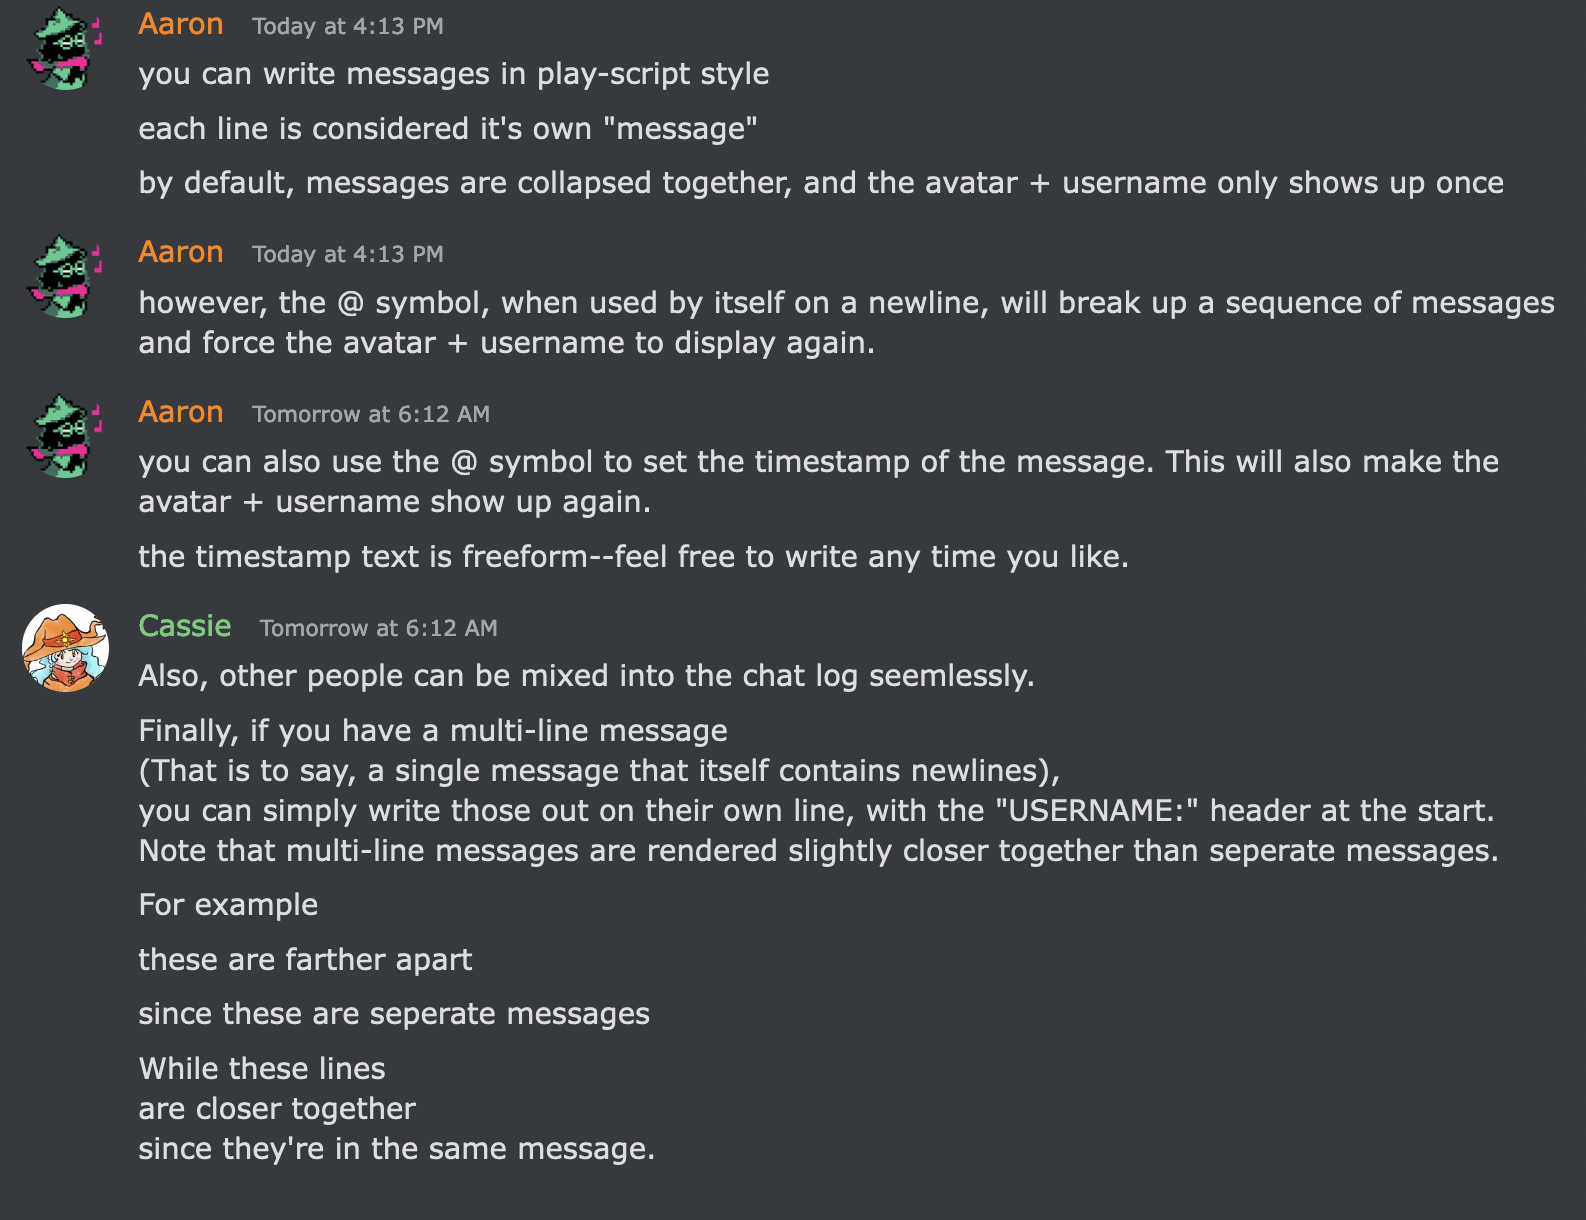
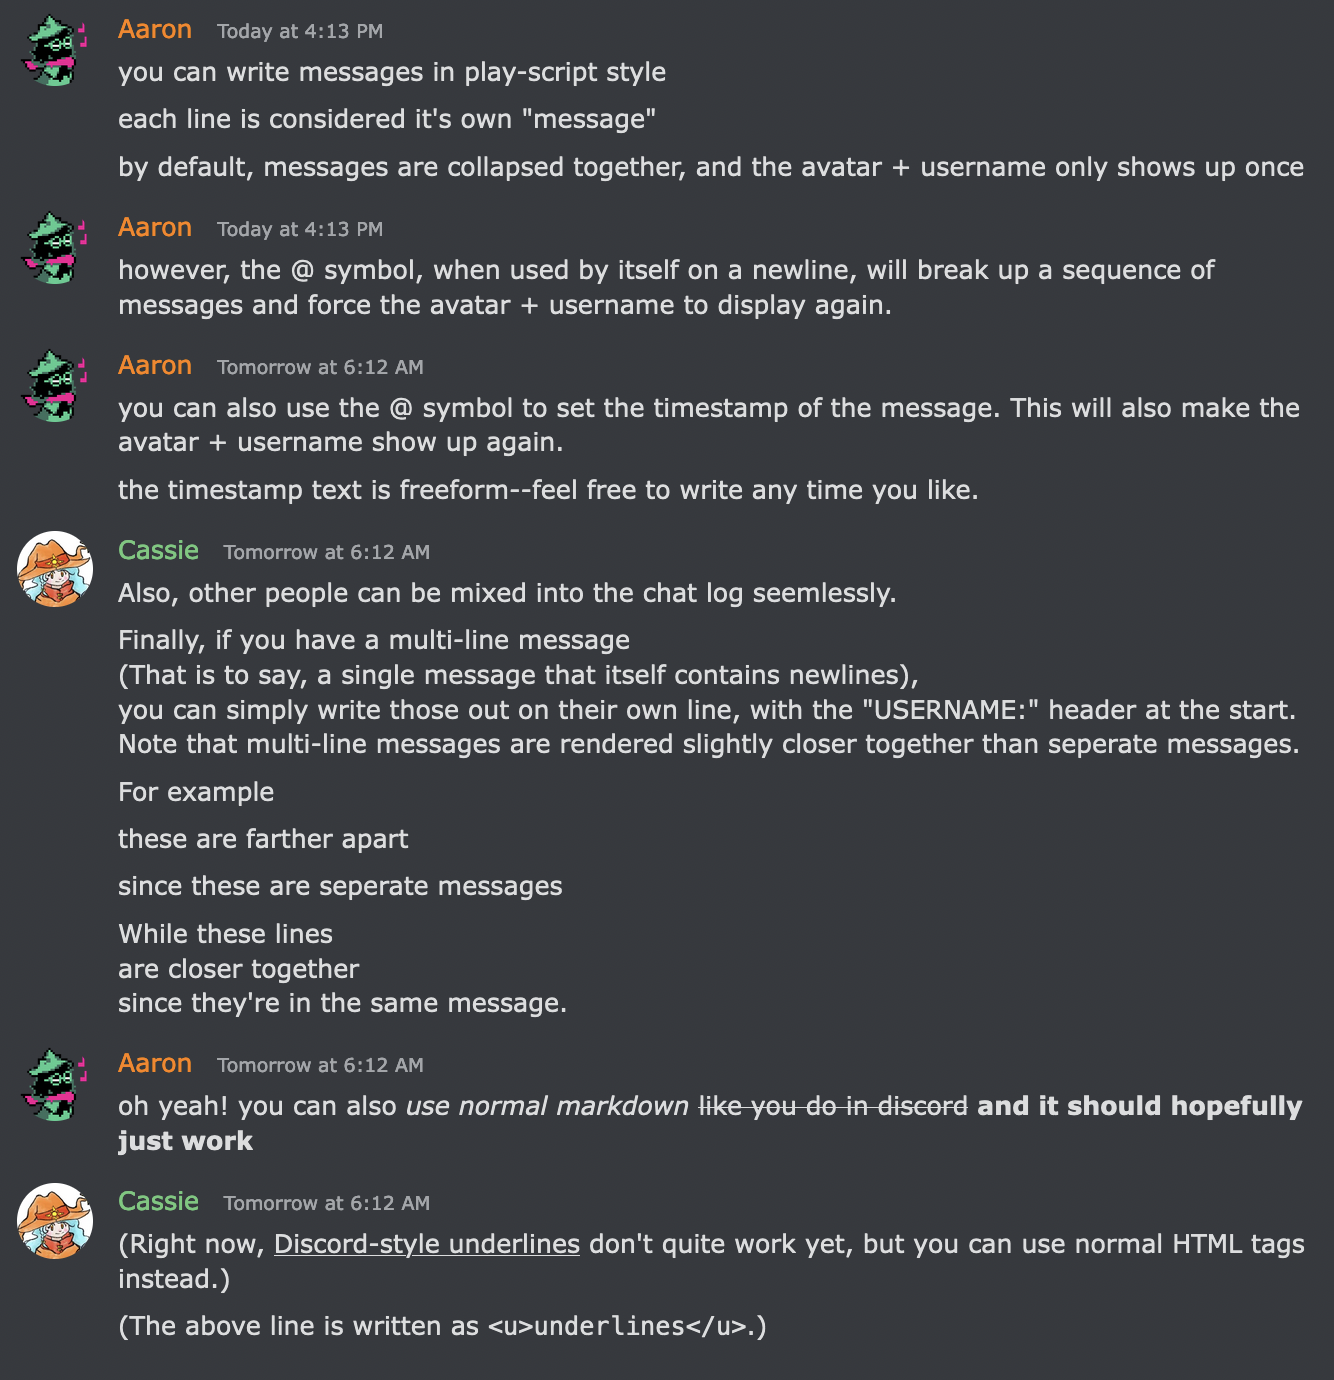
Fix underline to work with Cohost.
Cohost doesn't accept `<u>` tags for some reason. They are instead
replaced with spans that do the same thing.

Also, update the README to match post.txt.

diff --git a/src/main.rs b/src/main.rs
@@ -130,6 +130,11 @@ fn markdown_to_html(
     // (and if they want an actual <p> tag, they should probably edit the HTML output of Cohoard,
     // as most of the time, a raw <p> will look ugly).
     let html = html.replace("<p>", "").replace("</p>", "");
+    // Cohost doesn't accept <u>, so we need to replace it with a span that does the same thing.
+    let html = html
+        .replace("<u>", "<span style=\"text-decoration:underline\">")
+        .replace("</u>", "</span>");
+
     Ok(tera::Value::String(html))
 }
 

diff --git a/README.md b/README.md
@@ -27,6 +27,9 @@ CASSIE: since these are seperate messages
 CASSIE: While these lines
 are closer together
 since they're in the same message.
+AARON: oh yeah! you can also *use normal markdown* ~~like you do in discord~~ **and it should hopefully just work**
+CASSIE: (Right now, <u>Discord-style underlines</u> don't quite work yet, but you can use normal HTML tags instead.)
+CASSIE: (The above line is written as `<u>underlines</u>`.)
 ```
 
 This produces the following result:
